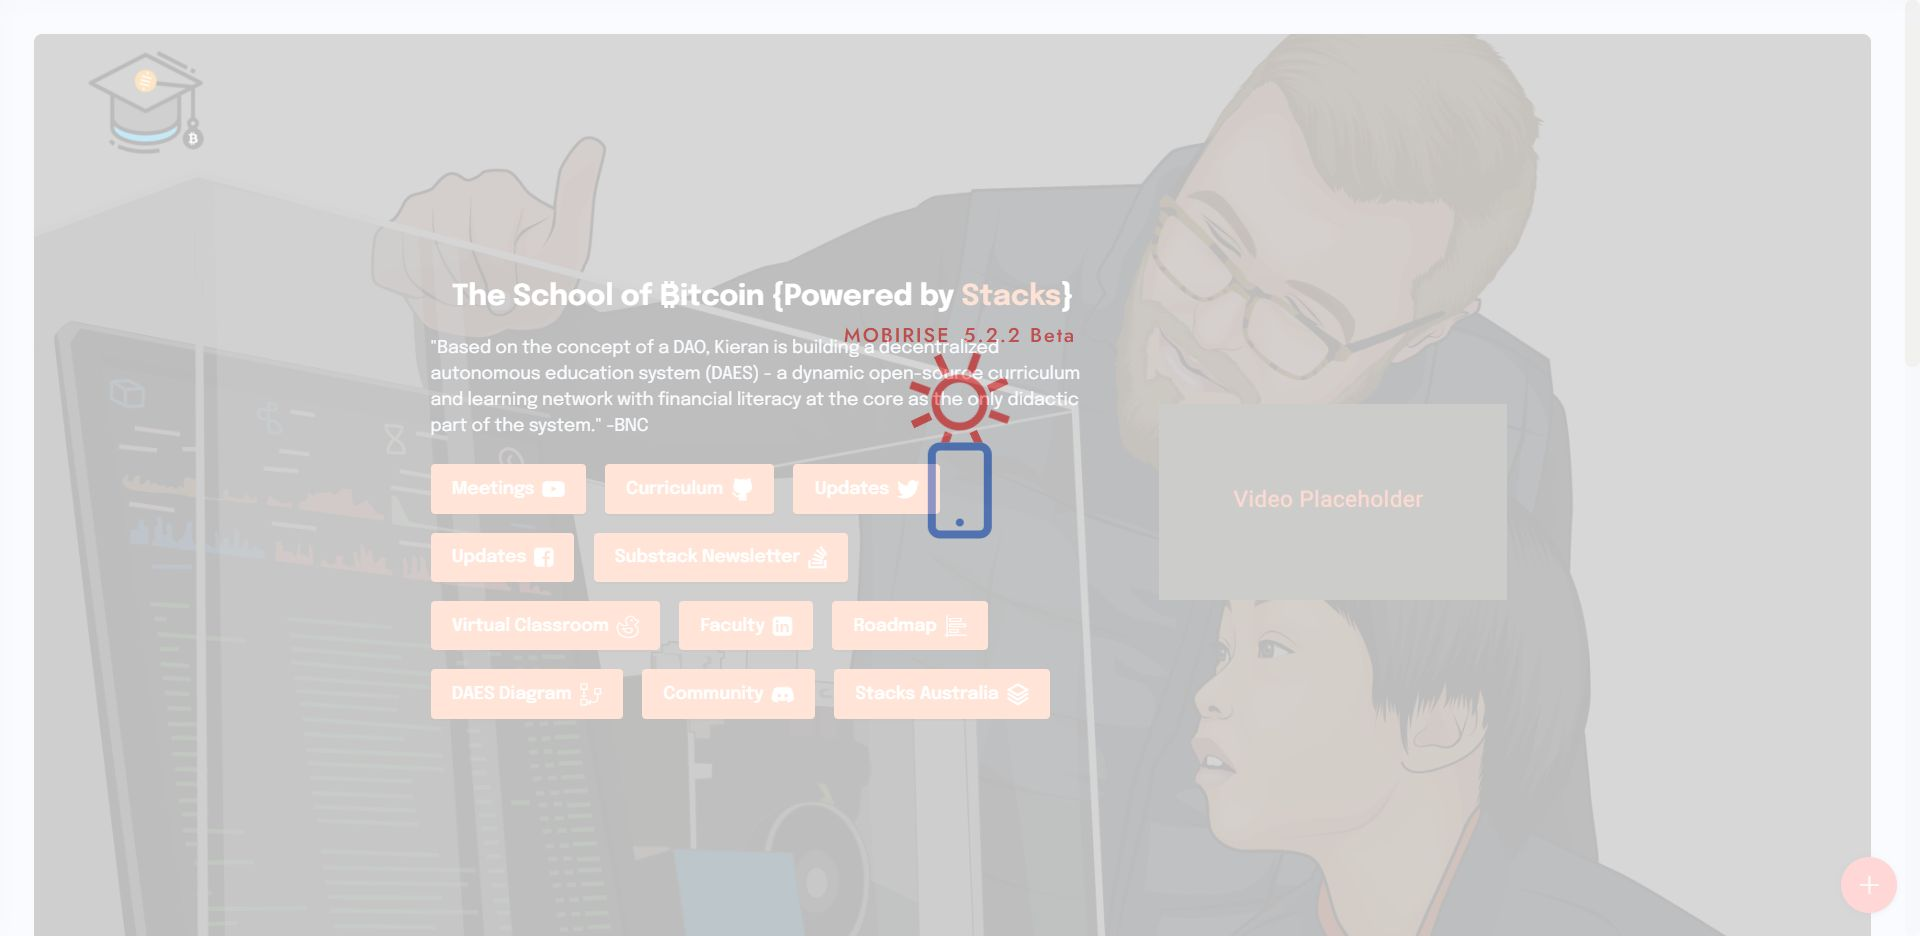
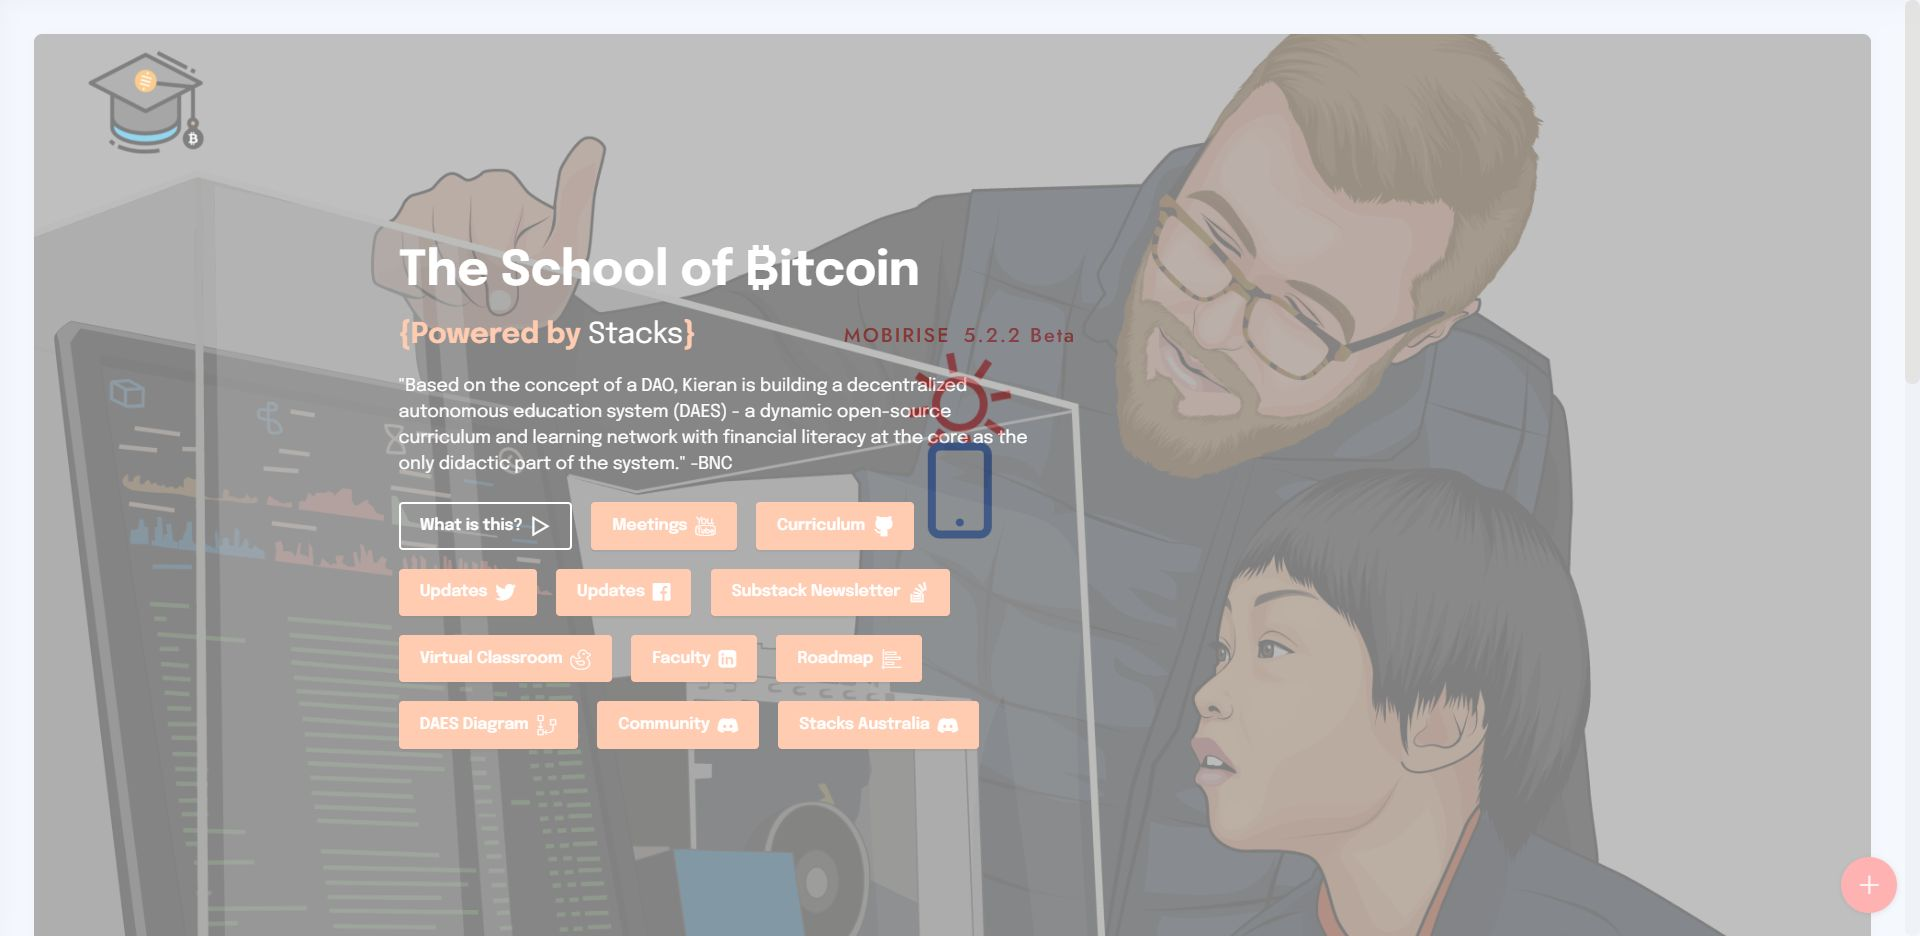
summary udpates
summary updates

diff --git a/index.html b/index.html
@@ -57,15 +57,15 @@
 
     
 
-    <div class="mbr-overlay" style="opacity: 0.5; background-color: rgb(0, 0, 0);"></div>
+    <div class="mbr-overlay" style="opacity: 0.7; background-color: rgb(0, 0, 0);"></div>
 
     <div class="container">
         <div class="row">
             <div class="col-12 col-lg-7">
                 <h1 class="mbr-section-title mbr-fonts-style mb-3 display-2"><strong>The School of ₿itcoin&nbsp;</strong></h1>
-                <h2 class="mbr-section-subtitle mbr-fonts-style mb-3 display-5"><strong>{Powered by <a href="https://www.stacks.co/build/get-started" class="text-primary" target="_blank">Stacks</a>}</strong></h2>
-                <p class="mbr-text mbr-fonts-style display-7"><a href="https://bravenewcoin.com/insights/podcasts/the-school-of-bitcoin-teaching-the-next-generation" class="text-primary" target="_blank">"Based on the concept of a DAO, Kieran is building a decentralized autonomous education system (DAES) - a dynamic open-source curriculum and learning network with financial literacy at the core as the only didactic part of the system." -BNC</a></p>
-                <div class="mbr-section-btn mt-3"><a class="btn btn-primary-outline display-4" href="#" data-toggle="modal" data-bs-toggle="modal" data-target="#mbr-popup-y" data-bs-target="#mbr-popup-y"><span class="mobi-mbri mobi-mbri-play mbr-iconfont mbr-iconfont-btn"></span>What is this?</a> <a class="btn btn-danger display-4" href="https://www.youtube.com/playlist?list=PLwn9KgpxsZSRvMj6vHHAZbXVXOzX-sH6j" target="_blank"><span class="icon54-v1-youtube-2 mbr-iconfont mbr-iconfont-btn"></span>Meetings</a> <a class="btn btn-danger display-4" href="https://github.com/TheSchoolofBitcoin/curriculumDAO_CD" target="_blank"><span class="socicon socicon-github mbr-iconfont mbr-iconfont-btn"></span>Curriculum</a> <a class="btn btn-danger display-4" href="https://twitter.com/theschoolofbtc" target="_blank"><span class="socicon socicon-twitter mbr-iconfont mbr-iconfont-btn"></span>Updates</a> <a class="btn btn-danger display-4" href="https://www.facebook.com/theschoolofbtc/" target="_blank"><span class="fa fa-facebook-official mbr-iconfont mbr-iconfont-btn"></span>Updates</a> <a class="btn btn-danger display-4" href="https://theschoolofbitcoin.substack.com/" target="_blank"><span class="socicon socicon-stackoverflow mbr-iconfont mbr-iconfont-btn"></span>Substack Newsletter</a>  <a class="btn btn-danger display-4" href="https://hubs.mozilla.com/CmZSgSr/theschoolofbitcoin/" target="_blank"><span class="icon54-v3-rubber-duck mbr-iconfont mbr-iconfont-btn"></span>Virtual Classroom</a> <a class="btn btn-danger display-4" href="https://www.linkedin.com/company/78805921/admin/" target="_blank"><span class="fa fa-linkedin-square mbr-iconfont mbr-iconfont-btn"></span>Faculty</a> <a class="btn btn-danger display-4" href="https://docs.google.com/spreadsheets/d/1QRZyqstvRpnwNJI55GrFG3QrmXLp3uOyVWhQs21ZDeI/edit?usp=sharing" target="_blank"><span class="icon54-v1-landscape-chart mbr-iconfont mbr-iconfont-btn"></span>Roadmap</a> <a class="btn btn-danger display-4" href="https://miro.com/app/board/uXjVOLl4TIQ=/?invite_link_id=314642427961" target="_blank"><span class="icon54-v1-diagram-3 mbr-iconfont mbr-iconfont-btn"></span>DAES Diagram</a> <a class="btn btn-danger display-4" href="https://discord.com/invite/eETDK5xfqU" target="_blank"><span class="socicon socicon-discord mbr-iconfont mbr-iconfont-btn"></span>Community</a> <a class="btn btn-danger display-4" href="https://www.notion.so/Stacks-Australia-85d651eb8b3844b69de91f09452fb4ce" target="_blank"><span class="socicon socicon-discord mbr-iconfont mbr-iconfont-btn"></span>Stacks Australia</a></div>
+                
+                <p class="mbr-text mbr-fonts-style display-7">An <a href="https://en.wikipedia.org/wiki/Open_source" class="text-danger text-primary" target="_blank" style="">open project</a> to build a dynamic consensus driven curriculum specifically for (de)financial literacy that has the ability plug into any institution to support <em><strong>learners </strong></em>on <a href="https://en.wikipedia.org/wiki/Problem-based_learning" class="text-danger" target="_blank" style="">problem </a>and <a href="https://en.wikipedia.org/wiki/Project-based_learning" class="text-danger" target="_blank" style="">project </a>based learning journeys.<br><br></p>
+                <div class="mbr-section-btn mt-3"><a class="btn btn-danger display-4" href="https://www.youtube.com/playlist?list=PLwn9KgpxsZSRvMj6vHHAZbXVXOzX-sH6j" target="_blank"><span class="icon54-v1-youtube-2 mbr-iconfont mbr-iconfont-btn"></span>Meetings</a> <a class="btn btn-danger display-4" href="https://curriculum.theschoolofbitcoin.com/" target="_blank"><span class="fa fa-git-square mbr-iconfont mbr-iconfont-btn"></span>Open Curriculum</a> <a class="btn btn-danger display-4" href="https://github.com/TheSchoolofBitcoin/curriculumDAO_CD" target="_blank"><span class="socicon socicon-github mbr-iconfont mbr-iconfont-btn"></span>DAES&nbsp; Repository</a> <a class="btn btn-danger display-4" href="https://twitter.com/theschoolofbtc" target="_blank"><span class="socicon socicon-twitter mbr-iconfont mbr-iconfont-btn"></span>Updates</a> <a class="btn btn-danger display-4" href="https://www.facebook.com/theschoolofbtc/" target="_blank"><span class="fa fa-facebook-official mbr-iconfont mbr-iconfont-btn"></span>Updates</a> <a class="btn btn-danger display-4" href="https://theschoolofbitcoin.substack.com/" target="_blank"><span class="socicon socicon-stackoverflow mbr-iconfont mbr-iconfont-btn"></span>Substack Newsletter</a>  <a class="btn btn-danger display-4" href="https://hubs.mozilla.com/CmZSgSr/theschoolofbitcoin/" target="_blank"><span class="icon54-v3-rubber-duck mbr-iconfont mbr-iconfont-btn"></span>Virtual Classroom</a> <a class="btn btn-danger display-4" href="https://www.linkedin.com/company/78805921/admin/" target="_blank"><span class="fa fa-linkedin-square mbr-iconfont mbr-iconfont-btn"></span>Faculty</a>   <a class="btn btn-danger display-4" href="https://discord.com/invite/eETDK5xfqU" target="_blank"><span class="socicon socicon-discord mbr-iconfont mbr-iconfont-btn"></span>Learning Community</a></div>
             </div>
         </div>
     </div>
